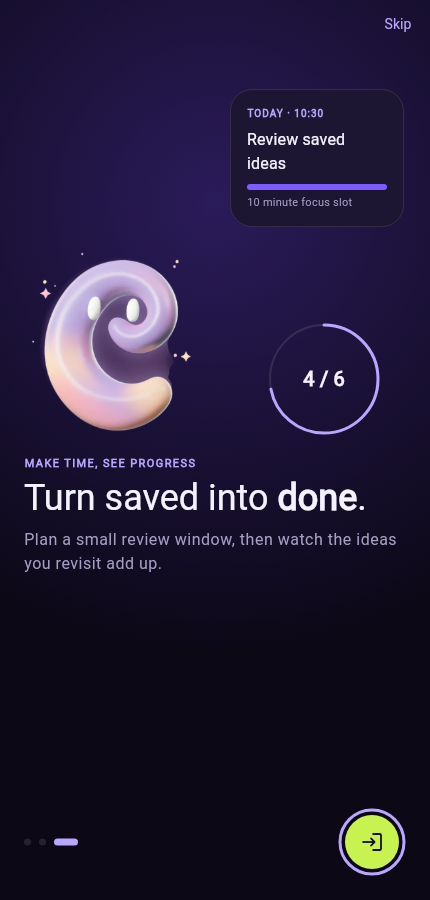
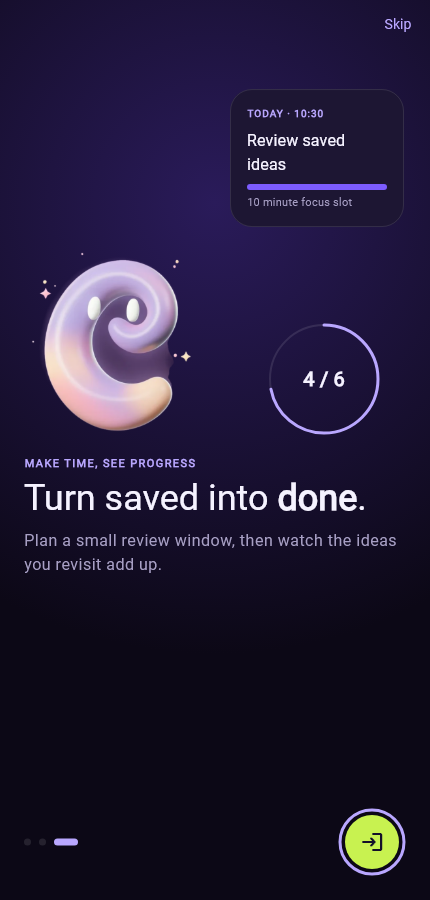
fix: prevent onboarding reminder overlap on narrow screens

diff --git a/pinne_flutter/lib/features/onboarding/onboarding_screen.dart b/pinne_flutter/lib/features/onboarding/onboarding_screen.dart
@@ -217,7 +217,10 @@ class _OnboardingPage extends StatelessWidget {
             SizedBox(
               height: math.max(PinneSpacing.sm, constraints.maxHeight * .02),
             ),
-            SizedBox(height: constraints.maxHeight * .50, child: scene),
+            SizedBox(
+              height: math.max(342, constraints.maxHeight * .50),
+              child: scene,
+            ),
             const SizedBox(height: PinneSpacing.lg),
             Text(
               eyebrow,
@@ -367,55 +370,67 @@ class _ReminderScene extends StatelessWidget {
 
   @override
   Widget build(BuildContext context) {
-    Widget composition(double value) => Stack(
-      key: ValueKey(reduced ? 'onboarding-static-scene' : 'reminder-animation'),
-      children: [
-        Positioned(
-          right: 0,
-          top: 0,
-          child: Image.asset(
-            'assets/art/cutout/ribbon_spirit_excited.webp',
-            width: 132,
+    Widget composition(double value) => LayoutBuilder(
+      builder: (context, constraints) {
+        final spiritHeight = math.min(108.0, constraints.maxHeight * .31);
+        return Column(
+          key: ValueKey(
+            reduced ? 'onboarding-static-scene' : 'reminder-animation',
           ),
-        ),
-        Positioned(
-          left: 12,
-          right: 54,
-          top: 42,
-          child: Transform.rotate(
-            angle: -.08,
-            child: const _MiniSaveCard(
-              title: 'A better way to keep notes',
-              label: 'ARTICLE · 4 MIN',
+          children: [
+            SizedBox(
+              height: spiritHeight,
+              child: Align(
+                alignment: Alignment.centerRight,
+                child: Image.asset(
+                  'assets/art/cutout/ribbon_spirit_excited.webp',
+                  key: const ValueKey('reminder-spirit'),
+                  width: spiritHeight,
+                  height: spiritHeight,
+                  fit: BoxFit.contain,
+                ),
+              ),
             ),
-          ),
-        ),
-        Positioned(
-          left: 46,
-          right: 14,
-          top: 120,
-          child: Transform.rotate(
-            angle: .055,
-            child: const _MiniSaveCard(
-              title: 'Motion with a purpose',
-              label: 'VIDEO · 6 MIN',
+            const SizedBox(height: PinneSpacing.md),
+            Expanded(
+              child: Column(
+                children: [
+                  const Expanded(
+                    child: _MiniSaveCard(
+                      key: ValueKey('reminder-article'),
+                      title: 'A better way to keep notes',
+                      label: 'ARTICLE · 4 MIN',
+                    ),
+                  ),
+                  const SizedBox(height: PinneSpacing.sm),
+                  const Expanded(
+                    child: _MiniSaveCard(
+                      key: ValueKey('reminder-video'),
+                      title: 'Motion with a purpose',
+                      label: 'VIDEO · 6 MIN',
+                    ),
+                  ),
+                  const SizedBox(height: PinneSpacing.sm),
+                  Expanded(
+                    child: Transform.translate(
+                      offset: Offset(
+                        0,
+                        reduced ? 0 : math.sin(value * math.pi * 2) * 2,
+                      ),
+                      child: const _MiniSaveCard(
+                        key: ValueKey('reminder-due'),
+                        title: 'Tiny habits that stick',
+                        label: 'DUE NOW · SAVED 24H AGO',
+                        due: true,
+                      ),
+                    ),
+                  ),
+                ],
+              ),
             ),
-          ),
-        ),
-        Positioned(
-          left: 22,
-          right: 36,
-          top: 198 + (reduced ? 0 : math.sin(value * math.pi * 2) * 4),
-          child: Transform.rotate(
-            angle: -.025,
-            child: const _MiniSaveCard(
-              title: 'Tiny habits that stick',
-              label: 'DUE NOW · SAVED 24H AGO',
-              due: true,
-            ),
-          ),
-        ),
-      ],
+          ],
+        );
+      },
     );
     if (reduced) return composition(1);
     return AnimatedBuilder(
@@ -427,6 +442,7 @@ class _ReminderScene extends StatelessWidget {
 
 class _MiniSaveCard extends StatelessWidget {
   const _MiniSaveCard({
+    super.key,
     required this.title,
     required this.label,
     this.due = false,
@@ -437,7 +453,11 @@ class _MiniSaveCard extends StatelessWidget {
 
   @override
   Widget build(BuildContext context) => Container(
-    padding: const EdgeInsets.all(PinneSpacing.lg),
+    width: double.infinity,
+    padding: const EdgeInsets.symmetric(
+      horizontal: PinneSpacing.lg,
+      vertical: PinneSpacing.sm,
+    ),
     decoration: BoxDecoration(
       color: due
           ? PinneColors.accentDue

diff --git a/pinne_flutter/test/onboarding_test.dart b/pinne_flutter/test/onboarding_test.dart
@@ -159,6 +159,30 @@ void main() {
     expect(find.byKey(const ValueKey('onboarding-static-scene')), findsNothing);
   });
 
+  testWidgets('reminder cards clear the spirit on narrow phones', (
+    tester,
+  ) async {
+    await tester.binding.setSurfaceSize(const Size(360, 800));
+    addTearDown(() => tester.binding.setSurfaceSize(null));
+    await tester.pumpWidget(testApp(MemoryOnboardingStore()));
+    await tester.pumpAndSettle();
+    await tester.tap(find.byKey(const ValueKey('onboarding-next')));
+    await tester.pumpAndSettle();
+
+    final spirit = tester.getRect(
+      find.byKey(const ValueKey('reminder-spirit')),
+    );
+    final article = tester.getRect(
+      find.byKey(const ValueKey('reminder-article')),
+    );
+    final video = tester.getRect(find.byKey(const ValueKey('reminder-video')));
+    final due = tester.getRect(find.byKey(const ValueKey('reminder-due')));
+    expect(spirit.bottom, lessThan(article.top));
+    expect(article.bottom, lessThan(video.top));
+    expect(video.bottom, lessThan(due.top));
+    expect(tester.takeException(), isNull);
+  });
+
   testWidgets('three onboarding screens render for review', (tester) async {
     await tester.binding.setSurfaceSize(const Size(430, 900));
     addTearDown(() => tester.binding.setSurfaceSize(null));
